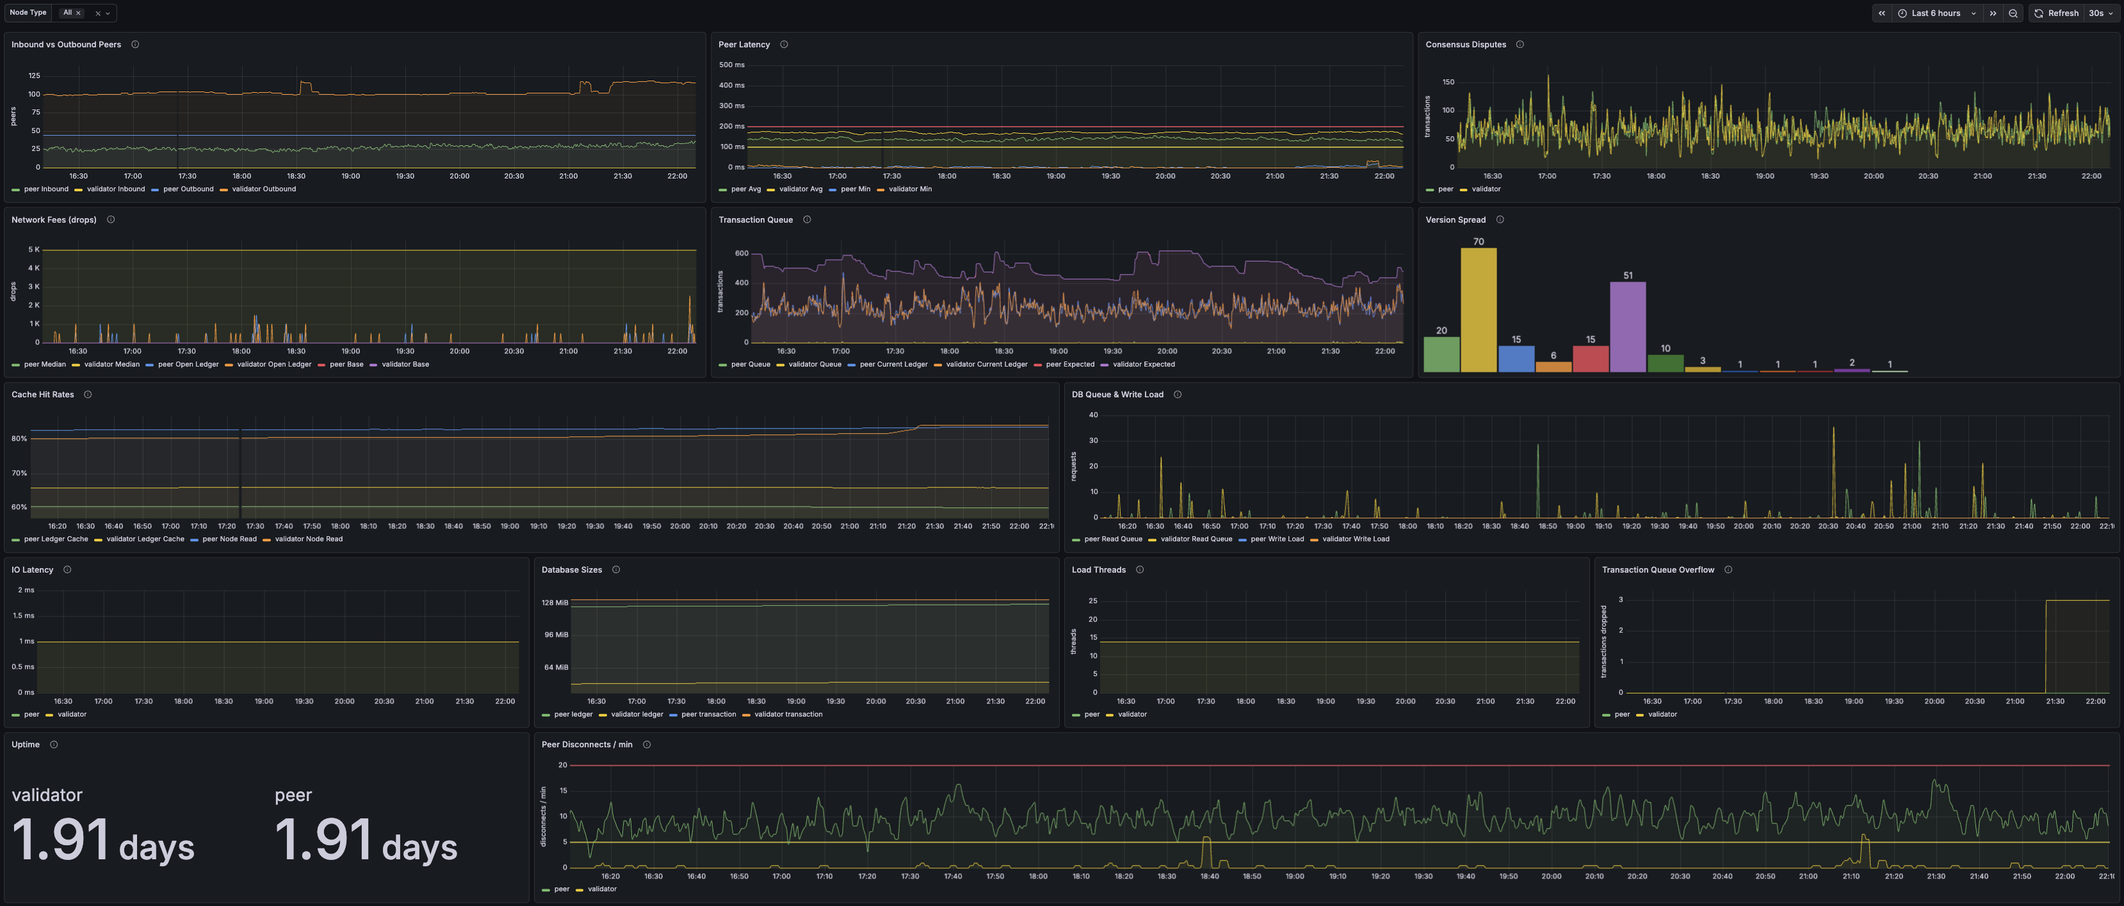
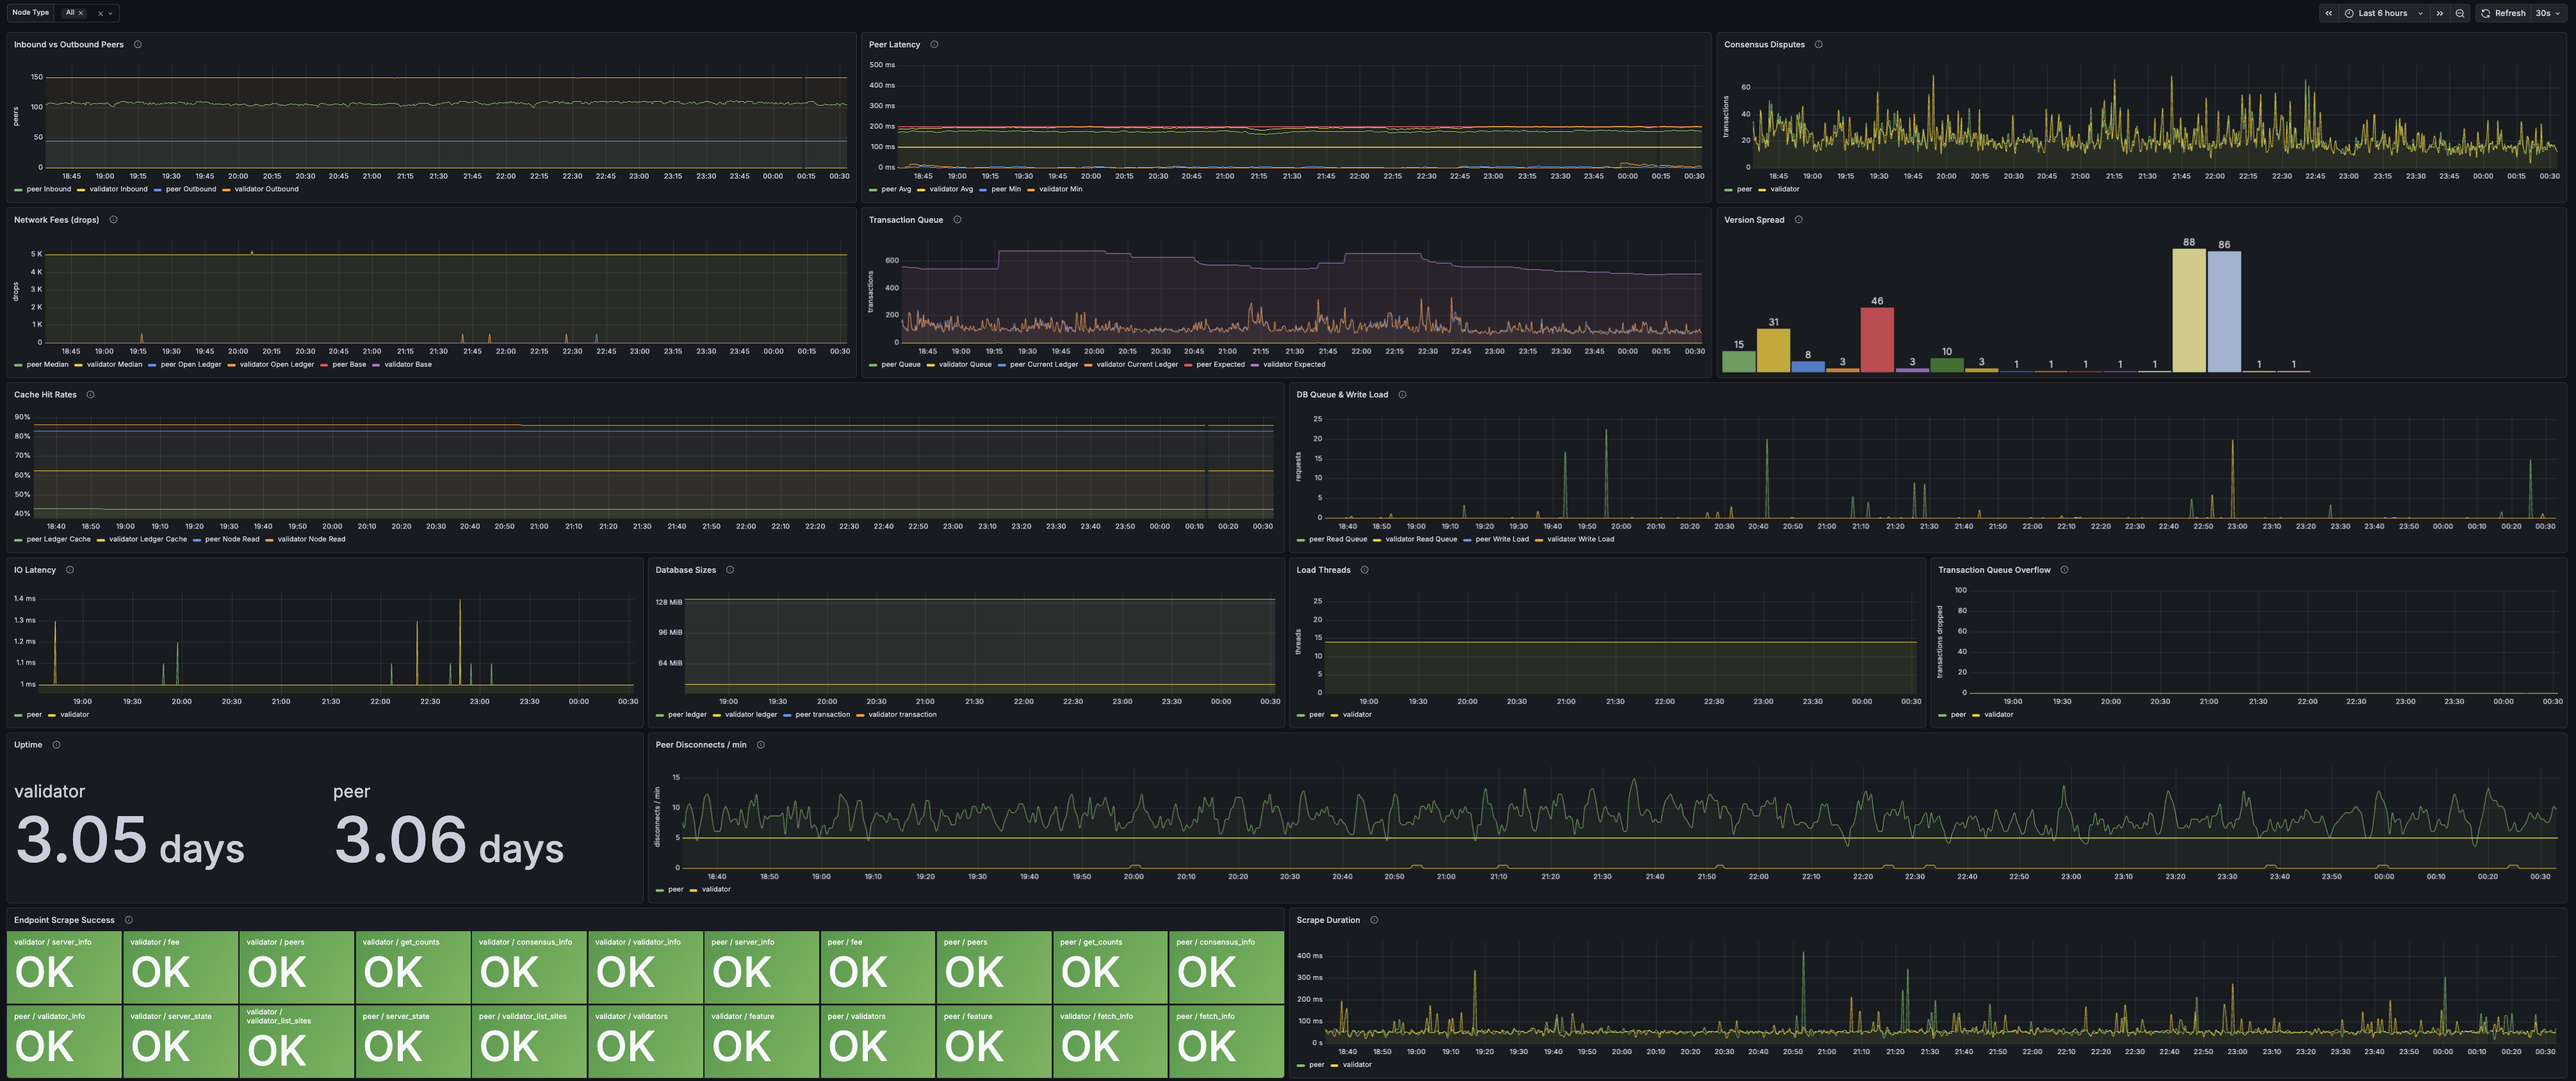
fix(exporter): convert reads_duration to Counter, bump to v1.4.1; fix dashboard units and layout
Exporter (v1.4.1):
- Convert rippled_db_node_reads_duration_seconds from Gauge to PromCounter
  with delta tracking — was showing cumulative total, now use rate() for
  real-time read busyness (seconds of read time per second)
- Add _db_node_reads_duration_us_last global for delta tracking
- Add 4 tests for reads duration delta + µs→s conversion (26 total)

Dashboard:
- Merge load factor breakdown panel into existing Load Factor panel (7 series)
- Fix Cache Hit Rate AL/SLE unit percentunit→percent (metrics are 0-100 not 0-1)
- Fix DB Node Read/Write Bytes expressions to use _total suffix
- Convert DB Node Reads Duration panel to rate() on _total counter
- Move Initial Sync Duration + Historical Ledger Fetch Rate into Last Scrape
  Success Age row as h=8 stat panels; remove orphaned bottom row
- Hide job type panel legends (too many series; visible in tooltip)

README: update panel count to 45, add all v1.4.0/v1.4.1 metrics, update deep-dive description
Screenshots: replace all four with updated captures

diff --git a/exporter/exporter.py b/exporter/exporter.py
@@ -28,7 +28,7 @@ from typing import Any
 import requests
 from prometheus_client import Counter as PromCounter, Gauge, start_http_server
 
-__version__ = "1.4.0"
+__version__ = "1.4.1"
 
 logging.basicConfig(
     level=logging.INFO,
@@ -86,6 +86,7 @@ _db_node_writes_last: int = 0
 _db_node_reads_last: int = 0
 _db_node_read_bytes_last: int = 0
 _db_node_written_bytes_last: int = 0
+_db_node_reads_duration_us_last: int = 0
 
 # Tracks last-seen rippled uptime; used to detect rippled restarts across scrapes
 _last_rippled_uptime_seconds: int | None = None
@@ -650,9 +651,9 @@ rippled_db_read_threads_total = Gauge(
     COMMON_LABELS,
 )
 
-rippled_db_node_reads_duration_seconds = Gauge(
+rippled_db_node_reads_duration_seconds = PromCounter(
     "rippled_db_node_reads_duration_seconds",
-    "Cumulative time spent on node store read operations since rippled startup (seconds)",
+    "Total time spent on node store read operations since exporter start (seconds, use rate())",
     COMMON_LABELS,
 )
 
@@ -1148,6 +1149,7 @@ def update_counts_metrics() -> None:
     global _db_node_reads_last
     global _db_node_read_bytes_last
     global _db_node_written_bytes_last
+    global _db_node_reads_duration_us_last
 
     data = query_rpc("get_counts")
     result: dict[str, Any] = data["result"]
@@ -1267,10 +1269,17 @@ def update_counts_metrics() -> None:
     rippled_db_read_threads_total.labels(node_type=NODE_TYPE).set(
         int(result.get("read_threads_total", 0))
     )
-    # node_reads_duration_us is microseconds — convert to seconds for Prometheus convention
-    rippled_db_node_reads_duration_seconds.labels(node_type=NODE_TYPE).set(
-        int(result.get("node_reads_duration_us", 0)) / 1_000_000
+    raw_reads_duration_us: int = int(result.get("node_reads_duration_us", 0))
+    reads_duration_delta_us: int = (
+        raw_reads_duration_us - _db_node_reads_duration_us_last
+        if raw_reads_duration_us >= _db_node_reads_duration_us_last
+        else raw_reads_duration_us
     )
+    if reads_duration_delta_us > 0:
+        rippled_db_node_reads_duration_seconds.labels(node_type=NODE_TYPE).inc(
+            reads_duration_delta_us / 1_000_000
+        )
+    _db_node_reads_duration_us_last = raw_reads_duration_us
 
     logger.info(
         "get_counts %s ledger_hit=%.1f%% node_read_hit=%.1f%% read_queue=%s write_load=%s",

diff --git a/exporter/tests/test_exporter.py b/exporter/tests/test_exporter.py
@@ -218,3 +218,33 @@ class TestCounterDelta:
     def test_first_scrape_last_zero(self) -> None:
         """First scrape: last=0, raw=300 — full value is the delta."""
         assert _compute_counter_delta(300, 0) == 300
+
+
+# ---------------------------------------------------------------------------
+# Reads duration delta + µs→s conversion tests
+# ---------------------------------------------------------------------------
+
+def _reads_duration_delta_seconds(raw_us: int, last_us: int) -> float:
+    """Mirror update_counts_metrics() reads-duration delta logic."""
+    delta_us: int = _compute_counter_delta(raw_us, last_us)
+    return delta_us / 1_000_000
+
+
+class TestReadsDurationDelta:
+    def test_normal_increment_converts_to_seconds(self) -> None:
+        """Delta in µs is divided by 1_000_000 to produce seconds."""
+        result = _reads_duration_delta_seconds(5_000_000, 3_000_000)
+        assert result == pytest.approx(2.0)
+
+    def test_no_change_produces_zero(self) -> None:
+        assert _reads_duration_delta_seconds(1_000_000, 1_000_000) == pytest.approx(0.0)
+
+    def test_restart_uses_raw_value(self) -> None:
+        """rippled restart resets counter — raw value itself is the delta."""
+        result = _reads_duration_delta_seconds(500_000, 9_000_000)
+        assert result == pytest.approx(0.5)
+
+    def test_fractional_seconds(self) -> None:
+        """Sub-second deltas are represented correctly."""
+        result = _reads_duration_delta_seconds(250_000, 0)
+        assert result == pytest.approx(0.25)

diff --git a/README.md b/README.md
@@ -26,7 +26,7 @@ One exporter instance runs per rippled node. Each exporter shares its target nod
 | `exporter/compose.yaml` | Docker Compose for both exporter instances |
 | `exporter/Dockerfile` | Container image definition |
 | `dashboards/rippled-overview.json` | Grafana dashboard — health at a glance (22 panels) |
-| `dashboards/rippled-deep-dive.json` | Grafana dashboard — detailed analysis (34 panels) |
+| `dashboards/rippled-deep-dive.json` | Grafana dashboard — detailed analysis (45 panels) |
 | `prometheus/scrape_configs.yaml` | Prometheus scrape config snippet for both exporters |
 
 ---
@@ -127,6 +127,25 @@ One exporter instance runs per rippled node. Each exporter shares its target nod
 | `rippled_endpoint_scrape_success` | Gauge | Per-endpoint scrape health |
 | `rippled_scrape_duration_seconds` | Gauge | Time to complete one full scrape cycle |
 | `rippled_last_scrape_success_timestamp_seconds` | Gauge | Unix timestamp of last successful scrape |
+| `rippled_load_factor_local` | Gauge | This node's own load factor (only reported under load; 0 at idle) |
+| `rippled_load_factor_net` | Gauge | Load factor this node broadcasts to peers (only reported under load; 0 at idle) |
+| `rippled_load_factor_cluster` | Gauge | Cluster-agreed load factor (only reported under load; 0 at idle) |
+| `rippled_cache_al_hit_rate` | Gauge | AccountLedger (AL) cache hit rate (%) |
+| `rippled_cache_sle_hit_rate` | Gauge | State Ledger Entry (SLE) cache hit rate (%) |
+| `rippled_cache_al_size` | Gauge | Number of entries in the AL cache |
+| `rippled_cache_treenode_track_size` | Gauge | Entries in the SHAMap eviction tracking structure |
+| `rippled_db_node_read_bytes_total` | Counter | Total bytes read from the node store since exporter start (use `rate()`) |
+| `rippled_db_node_written_bytes_total` | Counter | Total bytes written to the node store since exporter start (use `rate()`) |
+| `rippled_db_node_reads_duration_seconds_total` | Counter | Total time spent on node store reads since exporter start (use `rate()`; value of 1.0 = 100% of a CPU second) |
+| `rippled_db_read_threads_running` | Gauge | DB read threads currently active |
+| `rippled_db_read_threads_total` | Gauge | Total DB read threads available (running near total = pool saturated) |
+| `rippled_historical_perminute` | Gauge | Historical ledger data fetched from peers per minute (non-zero during backfill) |
+| `rippled_initial_sync_duration_seconds` | Gauge | Time rippled spent on initial sync after last restart |
+| `rippled_objects_in_memory` | Gauge | Count of key rippled object types held in memory (`object_type` label) |
+| `rippled_job_type_per_second` | Gauge | Jobs processed per second per internal job type (`job_type` label) |
+| `rippled_job_type_peak_time_ms` | Gauge | Peak execution time in ms per job type (`job_type` label) |
+| `rippled_job_type_avg_time_ms` | Gauge | Average execution time in ms per job type (`job_type` label) |
+| `rippled_job_type_in_progress` | Gauge | Jobs currently in-flight per job type (`job_type` label) |
 
 ### Deployment
 
@@ -211,21 +230,25 @@ Both dashboards use a `${PROMETHEUS}` datasource placeholder and will prompt for
 ![rippled Deep Dive — Middle](screenshots/detailed-middle.png)
 ![rippled Deep Dive — Bottom](screenshots/detailed-bottom.png)
 
-34 panels — detailed analysis. Default time range: 6h / 30s refresh.
+45 panels — detailed analysis. Default time range: 6h / 30s refresh.
 
 - Inbound vs outbound peers, peer latency (capped at 500ms), consensus disputes
 - Network fees (base / median / open ledger), transaction queue, version spread (bar chart)
 - Cache hit rates, DB queue & write load
-- I/O latency, load factor (network + server + fee escalation + fee queue), load threads, transaction queue overflow
+- I/O latency, load factor (all components: network, server, fee escalation, fee queue, local, net, cluster), load threads, transaction queue overflow
 - Ledger Fetch Activity (active/incomplete fetches, cumulative timeouts)
 - Ledger Age, Reserves (base + owner increment in XRP)
 - State Accounting (cumulative time in non-full states), State Transitions (rate of transitions per minute)
 - Validator List Site Health (current UP/DOWN status per site), Non-sane Peers
 - Ledger History Range (range size — climbs steadily and drops at each NuDB rotation)
-- Load Factor (network + server + fee escalation + fee queue, full-width)
 - Database Sizes, DB Read/Write Ops rate
 - UNL Size, Validations Cached, Validation Quorum, Amendments Enabled / Pending / Near Threshold
 - Peer disconnects/min, uptime, exporter health (endpoint scrape success, scrape duration, last success age)
+- Initial sync duration, historical ledger fetch rate
+- Cache Health: AL/SLE hit rates, AL size, TreeNode cache and track size
+- I/O Detail: node read/write byte rates, reads duration rate, read thread saturation
+- Objects in Memory: 10 key rippled object types (Ledger, STTx, STObject, SHAMap nodes, etc.)
+- Job Type throughput and peak time per internal job type
 
 ### Template Variable
 
